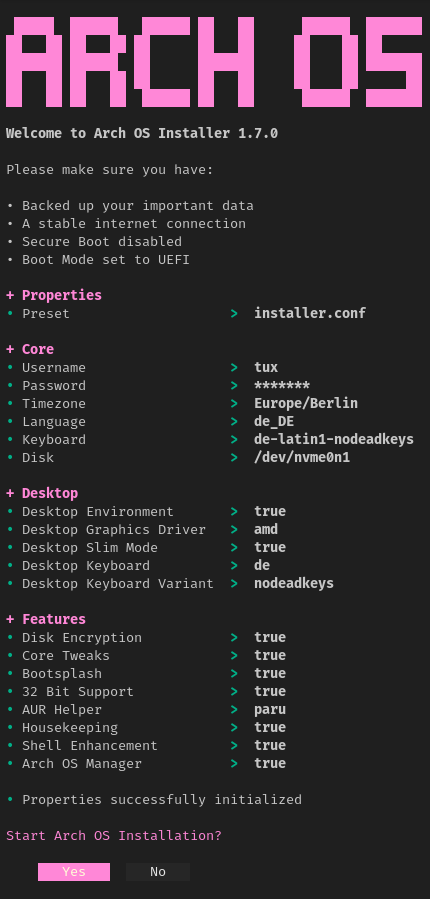
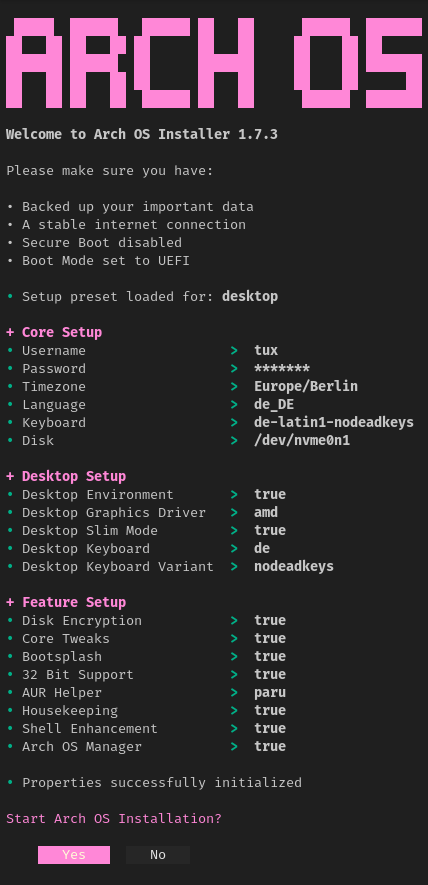
1.7.3
* Enhance config files (distrobox approved)
* Add error handling in fish & bash config
* Refactor namings
* Docs & screenshots

diff --git a/docs/README.md b/docs/README.md
@@ -24,7 +24,7 @@
 </b></p>
 
 <p>
-This project aims to provide a mostly automized, minimal and robust Arch Linux base, along with an easy-to-use and fast properties-file-based installer with error handling. Install a minimal Arch Linux core with optional features such as GNOME Desktop with Graphics Driver, Automatic Housekeeping, Zen Kernel, Fancy Shell Enhancement, preinstalled Paru as AUR Helper, enabled MultiLib, Pipewire Audio and some more...</p>
+This project aims to provide a mostly automized, minimal and robust Arch Linux base (minimal tty core or desktop), along with an easy-to-use and fast properties-file-based installer with error handling. Install a minimal Arch Linux core with optional features such as GNOME Desktop with Graphics Driver, Automatic Housekeeping, Zen Kernel, Fancy Shell Enhancement, preinstalled Paru as AUR Helper, enabled MultiLib, Pipewire Audio and some more...</p>
 
 <p>
   <img src="https://img.shields.io/badge/MAINTAINED-YES-green?style=for-the-badge">

diff --git a/docs/DOCS.md b/docs/DOCS.md
@@ -267,6 +267,7 @@ fish starship eza bat fastfetch mc btop nano man-db bash-completion
 - `mc` open file manager
 - `open <file>` open file in GNOME app
 - `history` open command history
+- `c` clear screen
 - `q` exit
 
 **Note:** See `~/.aliases` for all command aliases
